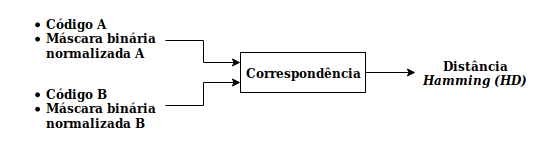
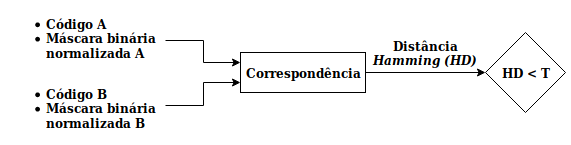
Metodologia feita

diff --git a/tex/4_Metodologia.tex b/tex/4_Metodologia.tex
@@ -1,5 +1,5 @@
 
-\par Este capítulo ...
+\par Neste capítulo, os métodos para a implementação do projeto proposto são descritos. São mostrados o diagrama da arquitetura do sistema de reconhecimento de íris com as métricas \textit{\acrfull{DSMI}} e \textit{\acrfull{FCE}}, e cada um dos módulos ou blocos desse diagrama.
 
 % Ruídos gerados
 % Ver slides das aulas 7,8 e 9 de IPI, e ver https://en.wikipedia.org/wiki/Image_noise
@@ -14,13 +14,22 @@
 
 \par A arquitetura do sistema proposto foi projetada para ser flexível, de forma que qualquer sistema de reconhecimento de íris pudesse ser usado. Essa flexibilidade possibilita o uso de diversos algoritmos de segmentação, codificação e correspondência de íris, contanto que suas saídas sejam compatíveis com as métricas \textit{\acrshort{DSMI}} e \textit{\acrshort{FCE}}, e que o resultado da correspondência seja uma distância.
 
-\par Como o objetivo do projeto é a análise das métricas na taxa de desempenho de sistemas de reconhecimento de íris, o sistema de reconhecimento de íris \textit{OSIRISv4.1} \cite{othman2015, osirisv41} foi utilizado na arquitetura proposta, e a etapa de registro foi desconsiderada no diagrama da \refFig{fig:metodologia:arquitetura}, já que somente a análise da etapa de autenticação é necessária e bancos de dados de íris prontos foram usados nos experimentos.
+\par Como o objetivo do projeto é a análise das métricas na taxa de desempenho de sistemas de reconhecimento de íris, o sistema de reconhecimento de íris \textit{OSIRISv4.1} \cite{othman2015, osirisv41, osirisv41_doc} foi utilizado na arquitetura proposta, e a etapa de registro foi desconsiderada no diagrama da \refFig{fig:metodologia:arquitetura}, já que somente a análise da etapa de autenticação é necessária e bancos de dados de íris prontos foram usados nos experimentos.
 
-\par Por ser um sistema de código aberto (\textit{open source}), ter bons desempenhos em bases de dados de íris conhecidas e ser o sistema usado por \cite{Jenadeleh_2018_CVPR_Workshops} para seus experimentos, o sistema de reconhecimento de íris \textit{OSIRISv4.1} foi escolhido para o sistema da arquitetura proposta.
+\par Por ser um sistema de código aberto (\textit{open source}), ter bons desempenhos em bases de dados de íris conhecidas e ser o sistema usado por \cite{Jenadeleh_2018_CVPR_Workshops} para seus experimentos, o sistema de reconhecimento de íris \textit{OSIRISv4.1} foi escolhido para o sistema da arquitetura proposta. Para utilizar o \textit{OSIRISv4.1}, devem ser criados quatro arquivos de configurações \cite{osirisv41_doc}:
+
+\begin{enumerate}
+    \item Segmentação;
+    \item Correspondência;
+    \item Pontos de aplicação;
+    \item Filtros de \textit{Gabor}.
+\end{enumerate}
+
+\par No arquivo de segmentação devem ser passados parâmetros para o funcionamento dos algoritmos, um arquivo texto do computador que contém uma lista de imagens de íris para ser processadas, o diretório que contém as imagens e o diretório em que as saídas do \textit{OSIRISv4.1} vão ser armazenadas. O arquivo de correspondência precisa de uma lista com pares de imagens de íris que já foram processadas pelo sistema e o arquivo de texto que o resultado das comparações será salvo, que consiste na \textit{\acrshort{HD}} calculada para os pares de imagens. Os arquivos de pontos de aplicação e filtros de \textit{Gabor} são disponibilizados em \cite{osirisv41}, e os autores recomendam que sejam os usados.
 
 \par Os limiares $T_{DSMI}$, $T_{FCE}$ e $T$ foram definidos de acordo com os critérios explicados no Capítulo 5.
 
-\par Cada um dos blocos ou módulos apresentados na \refFig{fig:metodologia:arquitetura} serão explicados como funcionam e como foram implementados com mais detalhes nas Seções \ref{sec:metodologia:dsmi} até \ref{sec:metodologia:correspondencia}.
+\par Cada um dos blocos ou módulos apresentados na \refFig{fig:metodologia:arquitetura} serão explicados como funcionam, como foram implementados e, para o caso de ser módulos de reconhecimento de íris, como funcionam no \textit{OSIRISv4.1} com mais detalhes nas Seções \ref{sec:metodologia:dsmi} até \ref{sec:metodologia:correspondencia}.
 
 \subsection{DSMI}\label{sec:metodologia:dsmi}
 
@@ -28,7 +37,7 @@
 
 \figura[h!]{img/Metodologia/dsmi}{Representação do módulo da métrica de qualidade \textit{DSMI} no diagrama da arquitetura proposta. A sua entrada é uma imagem de íris \textit{\acrshort{VL}} e saída é a qualidade da imagem $Q_{DSMI}$, sendo um valor entre 0 e 1. Enfim, o módulo deve decidir se a imagem é ou não boa o suficiente com base no limiar $T_{DSMI}$}{fig:metodologia:dsmi}{width=0.5\textwidth}
 
-\par A métrica consiste no cálculo de componentes de sinal e magnitude da imagem, $S_{1}$ e $S_{2}$, na combinação desses componentes na estatística de coincidência de padrões $S$ e no cálculo da variância das vizinhanças da imagem, para enfim, calcular a qualidade final $Q_{DSMI}$.
+\par A métrica consiste no cálculo de componentes de sinal e magnitude da imagem, $S_{1}$ e $S_{2}$, na combinação desses componentes na estatística de coincidência de padrões $S$ e no cálculo da variância das vizinhanças da imagem $\sigma^2$, para enfim, calcular a qualidade final $Q_{DSMI}$.
 
 \par O componente de sinal $S_{1}$ consiste no cálculo dos máximos locais da imagem de entrada (\refEq{eq:dsmi:s1}) e o componente de magnitude $S_{2}$ na comparação de um limiar global \textit{T} com as máximas diferenças locais (\refEq{eq:dsmi:s2}). Os passos para calcular os máximos locais e as máximas diferenças seguem os seguintes passos:
 
@@ -37,7 +46,7 @@
     \item Obter imagem resultante $Minimas$ do processamento da imagem de entrada com a operação morfológica de erosão (Seção \ref{sec:morf:ero}), considerando a vizinhança vertical e horizontal (Elemento estruturante da \refFig{fig:kernel_morfo});
     \item Calcular as absolutas diferenças entre $Maximas$ e a imagem de entrada, conforme: $X = |I_{entrada} - Maximas|$;
     \item Calcular as absolutas diferenças entre a imagem de entrada e $Minimas$, conforme: $Y = |Minimas - I_{entrada}|$;
-    \item Comparar os \textit{píxels} da imagem de entrada com o equivalente da imagem $Maximas$, e verificar se é maior, se for, é um máximo local e 1 é atribuído à posição em $S_{1}$ (\refEq{eq:dsmi:s1});
+    \item Comparar os \textit{pixels} da imagem de entrada com o equivalente da imagem $Maximas$, e verificar se é maior, se for, é um máximo local e 1 é atribuído à posição em $S_{1}$ (\refEq{eq:dsmi:s1});
     \item Calcular $max(X, Y)$ de forma a obter as máximas diferenças $MaxDiffs$ da imagem de entrada.
 \end{enumerate}
 
@@ -81,31 +90,68 @@
 
 \figura[h!]{img/Metodologia/modulo_segmentacao}{Módulo que segmenta e normaliza a imagem de íris. As etapas de segmentação e normalização são divididas em dois blocos separados, de forma que qualquer algoritmo de segmentação ou normalização pudesse ser usado. Sua entrada consiste na imagem de íris \textit{\acrshort{VL}} e suas saídas são as posições centrais e raio da íris e pupila, máscaras binárias da íris e da íris normalizada, e a íris normalizada}{fig:metodologia:segmentacao}{width=0.8\textwidth}
 
-\par O sistema de reconhecimento de íris escolhido para os experimentos foi o \textit{OSIRISv4.1} \cite{othman2015}.
+\figura[h!]{img/Metodologia/Img_24_1_4}{Imagem de íris \textit{\acrshort{VL}}}{fig:metodologia:original}{width=.3\textwidth}
 
-\par A etapa de segmentação do \textit{OSIRISv4.1} consiste em dois passos: encontrar a posição central da pupila e seu raio para então encontrar a íris \cite{osirisv41_doc}. A pupila é encontrada seguindo dois critérios: (i) calcular o valor mínimo na imagem sendo filtrada por uma máscara de raio $r$, aonde o processo de filtragem é a soma da vizinhança considerada pela máscara; (ii) calcular os gradientes verticais e horizontais da imagem usando o operador \textit{Sobel} \cite{kanopoulos1988}, construir duas máscaras de raio $r$, filtrar os gradientes com as duas máscaras construídas e encontrar o valor máximo da soma do resultado das duas filtragens. Os critérios (i) e (ii)  são repetidos para vários valores de raio da pupila $r$, e o valor máximo do resultado das somas dos dois critérios representa o melhor candidato para a pupila. Os contornos da íris devem ser encontrados, então o algoritmo \textit{Viterbi} \cite{sutra2012} é usado. O algoritmo é aplicado em duas resoluções: altas e baixas. A resolução alta é usada para encontrar os contornos precisos da íris e a resolução baixa para os contornos grosseiros (\textit{coarse contours}). O centro da íris e seu raio são calculados pelos procedimentos descritos acima. 
+\par A etapa de segmentação do \textit{OSIRISv4.1} consiste em dois passos: encontrar a posição central da pupila e seu raio para então encontrar a íris \cite{osirisv41_doc}. A pupila é encontrada seguindo dois critérios: (i) calcular o valor mínimo na imagem sendo filtrada por uma máscara de raio $r$, aonde o processo de filtragem é a soma da vizinhança considerada pela máscara; (ii) calcular os gradientes verticais e horizontais da imagem usando o operador \textit{Sobel} \cite{kanopoulos1988}, construir duas máscaras de raio $r$, filtrar os gradientes com as duas máscaras construídas e encontrar o valor máximo da soma do resultado das duas filtragens. Os critérios (i) e (ii)  são repetidos para vários valores de raio da pupila $r$, e o valor máximo do resultado das somas dos dois critérios representa o melhor candidato para a pupila. Os contornos da íris, então, devem ser encontrados usando o algoritmo \textit{Viterbi} \cite{sutra2012}. O algoritmo é aplicado em duas resoluções: altas e baixas. A resolução alta é usada para encontrar os contornos precisos da íris e a resolução baixa para os contornos grosseiros (\textit{coarse contours}). O centro da íris e seu raio são calculados pelos procedimentos descritos acima. O intervalo de valores dos raios que devem ser usados para procurar a íris e pupila são passados por arquivos de configuração, conforme descrito em \cite{osirisv41_doc}. Os valores utilizados neste projeto são enumerados no Capítulo 5, porque variaram para cada base de dados utilizada nos experimentos. A \refFig{fig:metodologia:segmen} ilustra os resultados da etapa de segmentação da imagem \refFig{fig:metodologia:original}.
 
-\par A etapa de normalização do \textit{OSIRISv4.1} é feita usando os contornos grosseiros encontrados na etapa de segmentação em conjunto com o \textit{Modelo Rubber Sheet} (Seção \ref{sec:iris:rec_iris}).
+\figurasDuplas{H}{img/Metodologia/Img_24_1_4_segm}{img/Metodologia/Img_24_1_4_mask}{Íris da \refFig{fig:metodologia:original} segmentada. Os valores encontrados para (Xp, Yp, Rp) e (Xi, Yi, Ri) foram: (419, 274, 52) e (414, 276, 183), respectivamente}{Íris e pupila segmentadas}{Máscara binária resultante da íris segmentada}{fig:metodologia:segmen}{fig:metodologia:segmen_colorida}{{fig:metodologia:segmen_binaria}{.5\textwidth}{width=.6\linewidth}}
 
-\par As \refFigs{fig:metodologia:original}{fig:metodologia:mascara_binaria_norm} ilustram os resultados das etapas de segmentação e normalização.
+\par A etapa de normalização do \textit{OSIRISv4.1} é feita usando os contornos grosseiros encontrados na etapa de segmentação em conjunto com o \textit{Modelo Rubber Sheet} (Seção \ref{sec:iris:rec_iris}) \cite{osirisv41_doc}. Os valores das dimensões da imagem normalizada devem ser passados por arquivos de configuração, conforme descrito em \cite{osirisv41_doc}. Os valores utilizados neste projeto são: 40 linhas e 300 colunas, ou seja, 40x300. A \refFig{fig:metodologia:normalizadas} ilustra os resultados da etapa de normalização da imagem \refFig{fig:metodologia:original}.
 
-\figura[h!]{img/Metodologia/Img_24_1_4}{Imagem de íris \textit{\acrshort{VL}} original}{fig:metodologia:original}{width=.3\textwidth}
+\figurasDuplas{H}{img/Metodologia/Img_24_1_4_imno}{img/Metodologia/Img_24_1_4_mano}{Íris da \refFig{fig:metodologia:original} normalizada}{Íris normalizada em coordenadas polares}{Máscara binária da íris normalizada}{fig:metodologia:normalizadas}{fig:metodologia:normalizada_imno}{{fig:metodologia:normalizada_mano}{.5\textwidth}{width=.8\linewidth}}
 
-\figura[h!]{img/Metodologia/}{}{fig:metodologia:original}{width=.3\textwidth}
-
-\figurasDuplas{h!}{img/Metodologia/Img_24_1_4_segm}{img/Metodologia/Img_24_1_4_mask}{Processo de normalização de uma imagem de íris segmentada}{Imagem original antes da normalização}{Imagem de íris normalizada}{fig:normalizacao}{fig:antes_normalizada}{{fig:normalizada}{.5\textwidth}{width=.8\linewidth}}
-
-\figurasDuplas{h!}{img/Metodologia/Img_24_1_4_imno}{img/Metodologia/Img_24_1_4_mano}{Processo de normalização de uma imagem de íris segmentada}{Imagem original antes da normalização}{Imagem de íris normalizada}{fig:normalizacao}{fig:antes_normalizada}{{fig:normalizada}{.5\textwidth}{width=.8\linewidth}}
-
+\FloatBarrier
 
 \subsection{FCE}\label{sec:metodologia:fce}
 
-\figura[h!]{img/Metodologia/fce}{}{fig:metodologia:fce}{width=0.6\textwidth}
+\par O módulo \acrshort{FCE} é o módulo que é responsável por calcular a qualidade da segmentação da íris da imagem de entrada, usando a métrica de qualidade \textit{\acrshort{FCE}}. O módulo recebe os resultados do módulo de segmentação, calcula a qualidade da segmentação e decide se a segmentação foi boa, de forma a ser passada para o módulo de codificação. A \refFig{fig:metodologia:fce} ilustra as entradas e saídas do módulo \acrshort{FCE}.
+
+\figura[H]{img/Metodologia/fce}{Módulo da métrica de qualidade \textit{\acrshort{FCE}} que calcula a qualidade da segmentação da íris. Recebe como entrada a íris e máscara normalizadas e os raios da pupila e íris. A saída consiste na qualidade da segmentação $Q_{FCE}$, sendo um valor entre 0 e 1. O módulo deve então decidir se a segmentação da íris foi boa o suficiente para ser codificada, de acordo com o limiar $T_{FCE}$}{fig:metodologia:fce}{width=0.6\textwidth}
+
+\par A métrica consiste no cálculo de três submétricas (Seção \ref{sec:revisao:fce}):
+
+\begin{enumerate}
+    \item Métrica de Correlação dos Atributos;
+    \item Métrica de oclusão;
+    \item Métrica de dilatação.
+\end{enumerate}
+
+\par Onde a métrica de correlação dos atributos ($FCM$) consiste na medição da qualidade e a distintividade dos padrões presentes na íris segmentada, métrica de oclusão ($O$) na medição da quantidade de ruídos presentes na íris segmentada e a métrica de dilatação ($D$) na medição de quanto a pupila está dilatada. As métricas são então combinadas na qualidade final da segmentação $Q_{FCE}$.
+
+\par Para o cálculo da métrica $FCM$, é necessária a imagem da íris normalizada. Os passos descritos abaixo são feitos para cada par adjacente de linhas da imagem da íris normalizada, $\vec{l}_{i}$ e $\vec{l}_{i+1}$, conforme descrito pelas \refEqs{eq:fce:fcm1}{eq:fce:fcm4} na Seção \ref{sec:revisao:fce}:
+
+\begin{enumerate}
+    \item Filtrar as linhas $\vec{l}_{i}$ e $\vec{l}_{i+1}$ com o filtro \textit{Log-Gabor} (\refEq{eq:filtragem:loggabor});
+    \item Calcular a função de massa probabilidade das linhas $\vec{l}_{i}$ e $\vec{l}_{i+1}$ filtradas (\refEqs{eq:fce:fcm1}{eq:fce:fcm2});
+    \item Calcular a distância de informação $J_{i}$ com as entropias relativas e armazená-la em um vetor (\refEq{eq:fce:fcm3});
+\end{enumerate}
+
+\par Quando os passos enumerados acima forem repetidos para todas as linhas da imagem de íris normalizada, $FCM$ é calculado pela média das distâncias de informaçãp $J_{i}$ (\refEq{eq:fce:fcm5}). Os parâmetros utilizadas no filtro Log-Gabor na \refEq{eq:filtragem:loggabor} são: $\omega_{0} = 22$ e $\sigma = 0.5$. Para o cálculo da métrica final, $FCM$ é normalizado pela função $f()$ (\refEq{eq:fce:normFCM}). Como a métrica foi proposta para imagens no espectro \textit{NIR} \cite{du2010}, e o projeto proposto trabalha com imagens no espectro de luz visível, o parâmetro $\beta$ foi recalculado, de forma que experimentalmente achou-se $\beta = 0.294$. Já o parâmetro $\alpha$ continua sendo $\alpha = 1/\beta$.
+
+\par A métrica de oclusão $O$ precisa da máscara binária normalizada da íris para ser calculada e o cálculo consiste em somar todos os \textit{pixels} pretos e dividir pela quantidade total de \textit{pixels} da imagem, conforme a \refEq{eq:fce:O}. A métrica $O$ deve então ser normalizada pela função $g()$ (\refEq{eq:fce:normO}).
+
+\par A métrica de dilatação $D$ precisa dos raios da pupila e íris e o seu cálculo consiste simplesmente em aplicar a \refEq{eq:fce:D}. A função de normalização $h()$ (\refEq{eq:fce:normD}) é então aplicada.
+
+\par Enfim, a qualidade final $Q_{FCE}$ é calculada pela \refEq{eq:fce:Q} e o módulo decide se a segmentação foi ou não boa para ser codificada, comparando o limiar $T_{FCE}$ com a qualidade $Q_{FCE}$.
 
 \subsection{Codificação}\label{sec:metodologia:codificacao}
 
-\figura[h!]{img/Metodologia/modulo_codificacao}{}{fig:metodologia:codificacao}{width=0.8\textwidth}
+\par O módulo de codificação é o módulo responsável por codificar os atributos extraídos da íris segmentada e gerar o código da íris (\textit{IrisCode}). O módulo deve receber a íris normalizada em coordenadas polares, resultado do módulo de segmentação, e codificá-la por meio de algum algoritmo e gerar o \textit{IrisCode} correspondente. A \refFig{fig:metodologia:codificacao} ilustra o módulo e as suas entradas e saídas.
+
+\figura[h!]{img/Metodologia/modulo_codificacao}{Módulo que codifica a íris segmentada. As etapas de extração dos atributos e codificação são divididas em dois submódulos. Sua entrada consiste na íris normalizada em coordenadas polares, resultado do módulo de segmentação, e sua saída é o código da íris (\textit{IrisCode})}{fig:metodologia:codificacao}{width=0.8\textwidth}
+
+\par A etapa de codificação do \textit{OSIRISv4.1} consiste na aplicação de três filtros \textit{Gabor}. Porém, como a parte real e imaginária são consideradas independentemente, acabam sendo seis processos de filtragem \cite{osirisv41_doc}. Os resultados das seis filtragens passa pelo processo das \textit{Wavelets 2D de Gabor} (Seção \ref{sec:iris:rec_iris}), de forma que 6 imagens binárias, ou 6 códigos de íris, são combinados em um único \textit{IrisCode}. A \refFig{fig:metodologia:iriscode} ilustra o \textit{IrisCode} gerado para a íris da \refFig{fig:metodologia:original}. Os filtros de \textit{Gabor} utilizados são fornecidos em \cite{osirisv41} pelos autores no formato de um arquivo de configuração.
+
+\figura[H]{img/Metodologia/Img_24_1_4_code}{\textit{IrisCode} da \refFig{fig:metodologia:original} gerado pelo \textit{OSIRISv4.1}. Pela figura, é possível notar que são 6 códigos de íris combinados em um só, para cada um dos filtros \textit{Gabor} aplicados}{fig:metodologia:iriscode}{width=0.5\textwidth}
 
 \subsection{Correspondência}\label{sec:metodologia:correspondencia}
 
-\figura[h!]{img/Metodologia/modulo_correspondencia}{}{fig:metodologia:correspondencia}{width=0.8\textwidth}
+\par O módulo de correspondência é o último módulo do sistema proposto e é responsável por calcular a distância entre dois códigos de íris e decidir se o sistema deve ou não aceitar a autenticação. O módulo deve receber dois códigos de íris e as máscaras binárias normalizadas correspondentes e usá-los para calcular a \textit{\acrfull{HD}} (Seção \ref{sec:iris:rec_iris}). A \refFig{fig:metodologia:correspondencia} ilustra o módulo e as suas entradas e saídas.
+
+\figura[h!]{img/Metodologia/modulo_correspondencia}{Módulo que calcula a \textit{\acrfull{HD}} entre dois modelos e decide se correspondem ou não a mesma pessoa. O módulo recebe de entrada dois \textit{IrisCodes} e duas máscaras binárias normalizadas correspondentes, A e B. Então calcula a \textit{\acrshort{HD}} seguindo a \refEq{eq:HD}, e a compara com o limiar \textit{T} definido para o sistema e, caso seja menor, aceita a autenticação e rejeita caso contrário}{fig:metodologia:correspondencia}{width=0.8\textwidth}
+
+\par A etapa de correspondência do \textit{OSIRISv4.1}, assim como a usada pelo autor \cite{daugman2004}, consiste no cálculo da \textit{\acrshort{HD}} usando dois códigos de íris e duas máscaras binárias. Mas a forma como realiza esse cálculo é diferente \cite{osirisv41_doc}. O cálculo consiste em fazer a operação \textit{booleana AND} entre as duas máscaras binárias em posições específicas, definidas pelos pontos de aplicação. Então, a operação \textit{booleana XOR} é feita entre os dois códigos de íris nas posições dos pontos de aplicação que o resultado da operação entre as máscaras é 1, ou seja, não é ruído. Quanto menor o valor resultante, maior a probabilidade dos dois códigos de íris pertencerem à mesma pessoa. Os pontos de aplicação são definidos em um arquivo de configuração e são disponibilizados em \cite{osirisv41} pelos autores. A \refFig{fig:metodologia:processo_matching} ilustra os passos descritos acima para o cálculo da \textit{\acrshort{HD}}.
+
+\par No próximo capítulo, serão descritos os experimentos realizados para validar as métricas \textit{\acrshort{DSMI}} e \textit{\acrshort{FCE}} na arquitetura proposta no diagrama da \refFig{fig:metodologia:arquitetura}.
+
+\figuraBib[H]{img/Metodologia/processo_matching}{Processos realizados para calcular a \textit{\acrfull{HD}} entre os modelos obtidos dos processos de segmentação e codificação de um indivíduo. Operação \textit{booleana AND} é feita entre duas máscaras binárias normalizadas em posições definidas nos pontos de aplicação. A operação \textit{XOR} é então aplicada nos pontos de aplicação que não são ruídos, obtidos no resultado da operação \textit{AND} }{osirisv41_doc}{fig:metodologia:processo_matching}{width=0.8\textwidth}

diff --git a/tex/3_Revisao.tex b/tex/3_Revisao.tex
@@ -1,4 +1,7 @@
-\par Este projeto consiste na aplicação de duas métricas de qualidade, \textit{\acrfull{DSMI}} \cite{Jenadeleh_2018_CVPR_Workshops} e \textit{\acrfull{FCE}} \cite{du2010}, e verificar como elas influenciam no desempenho de sistemas de reconhecimento de íris.
+
+\par Neste capítulo, uma revisão bibliográfica de métricas de qualidade de imagem, imagens biométricas, imagens de íris e da segmentação de íris é feita e os métodos das métricas \textit{\acrfull{DSMI}} e \textit{\acrfull{FCE}} são explicados com detalhes.
+
+\par Este projeto consiste na aplicação de duas métricas de qualidade, \textit{\acrshort{DSMI}} \cite{Jenadeleh_2018_CVPR_Workshops} e \textit{\acrshort{FCE}} \cite{du2010}, e verificar como elas influenciam no desempenho de sistemas de reconhecimento de íris.
 
 \par Qualidade de imagens é um tema que tem grande destaque na comunidade científica, por suas muitas aplicações, como sistemas biométricos, transmissão, compressão, restauração entre outras \cite{zhang2015}. Possui diversos desafios, principalmente porque qualidade é algo subjetivo e sujeito à percepção de seres humanos \cite{xu2016}. 
 
@@ -107,8 +110,6 @@
 
 \par Inicialmente, a imagem da íris normalizada resultante da etapa de segmentação, passa por uma etapa de pré processamento. Cada linha da imagem é transformada para o domínio da frequência e passa por um processo de filtragem, usando o filtro passa banda \textit{Log-Gabor} unidimensional, que é descrito pela \refEq{eq:filtragem:loggabor}. As linhas são então transformadas de volta para o domínio do espaço.
 
-% \par Os parâmetros utilizadas na \refEq{eq:filtragem:loggabor} são: $\omega_{0} = 22$ e $\sigma = 0.5$. (DEVO COLOCAR ISSO AGORA OU EM METODOLOGIA/EXPERIMENTOS?)
-
 
 \par As operações que são feitas entre duas linhas consecutivas, $\vec{l}_{i}$ e $\vec{l}_{i+1}$, na magnitude da imagem resultante da etapa de pré processamento são descritas nas \refEqs{eq:fce:fcm1}{eq:fce:fcm4}:
 \begin{equation} \label{eq:fce:fcm1}
@@ -172,7 +173,6 @@ As \refEqs{eq:fce:normFCM}{eq:fce:normD} descrevem as funções de normalizaçã
 
 \noindent onde $\beta = 0.005$ e $\alpha = a/\beta$;
 
-% \par Como a métrica foi proposta para imagens no espectro \textit{NIR} \cite{du2010}, e o projeto proposto trabalha com imagens no espectro de luz visível, o parâmetro $\beta$ foi recalculado, de forma que experimentalmente achou-se $\beta = 0.294$. Já o parâmetro $\alpha$ continua sendo $\alpha = 1/\beta$ (FALAR AQUI OU EM METODOLOGIA/RESULTADOS?).
 
 \begin{equation}\label{eq:fce:normO}
   g(O) = (1 - e^{-\lambda(1 - O)})/\kappa

diff --git a/tex/2_Fundamentacao.tex b/tex/2_Fundamentacao.tex
@@ -11,7 +11,7 @@
 #1\end{minipage}}%
 \\\vspace{\baselineskip}}%
 
-Este capítulo introduz e explica todos os conceitos teóricos necessários para o entendimento do projeto proposto. Explica o que é biometria, o que são sistemas biométricos, o que é processamento de imagens no domínio espacial, processamento morfológico de imagens, filtragem em imagens e sistemas de reconhecimento de íris.
+\par Este capítulo introduz e explica todos os conceitos teóricos necessários para o entendimento do projeto proposto. Explica o que é biometria, o que são sistemas biométricos, o que é processamento de imagens no domínio espacial, processamento morfológico de imagens, filtragem em imagens e sistemas de reconhecimento de íris.
 
 %%%%%%%%%%%%%%%%%%%%%%%%%%%%%%%%%%%%%%%%%%%%%%%%%%%%%%%%%%%%%%%%%%%%%%%%%%%%%%%%
 %%%%%%%%%%%%%%%%%%%%%%%%%%%%%%%%%%%%%%%%%%%%%%%%%%%%%%%%%%%%%%%%%%%%%%%%%%%%%%%%

diff --git a/monografia.tex b/monografia.tex
@@ -15,6 +15,8 @@
 \usepackage{subcaption}
 \usepackage[chapter]{algorithm}
 \usepackage{algorithmic}
+\usepackage{float}
+\usepackage{placeins}
 
 %%%%%%%%%%%%%%%%%%%%%%%%%%%%%%%%%%%%%%%%
 % Informações do Trabalho
